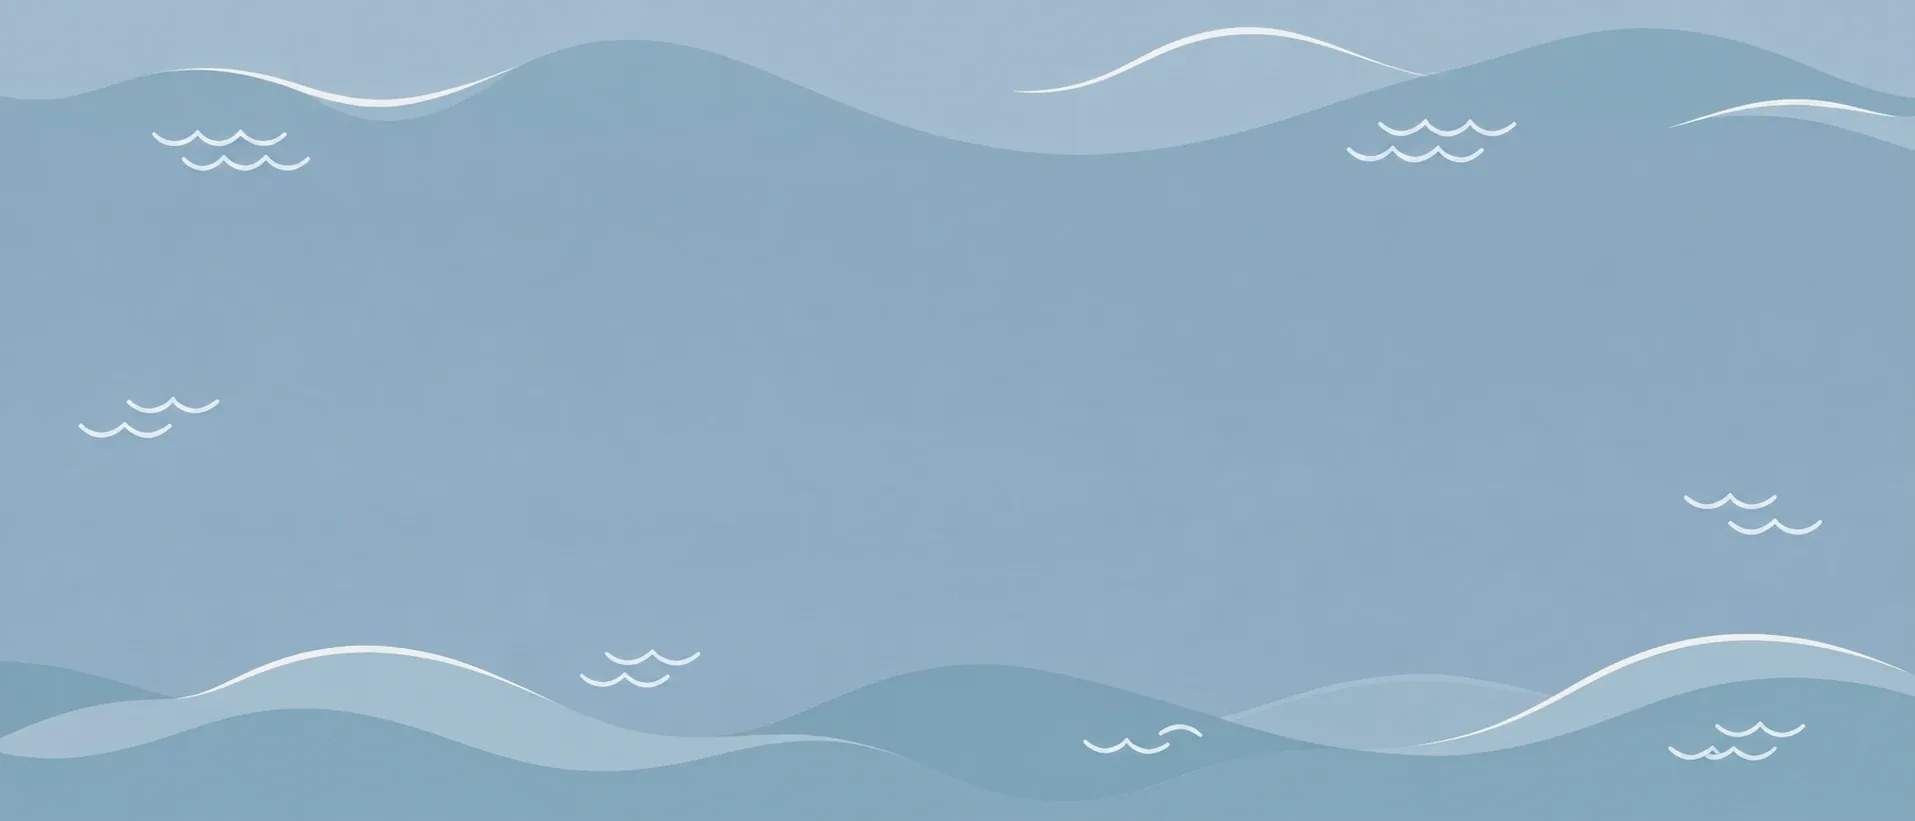
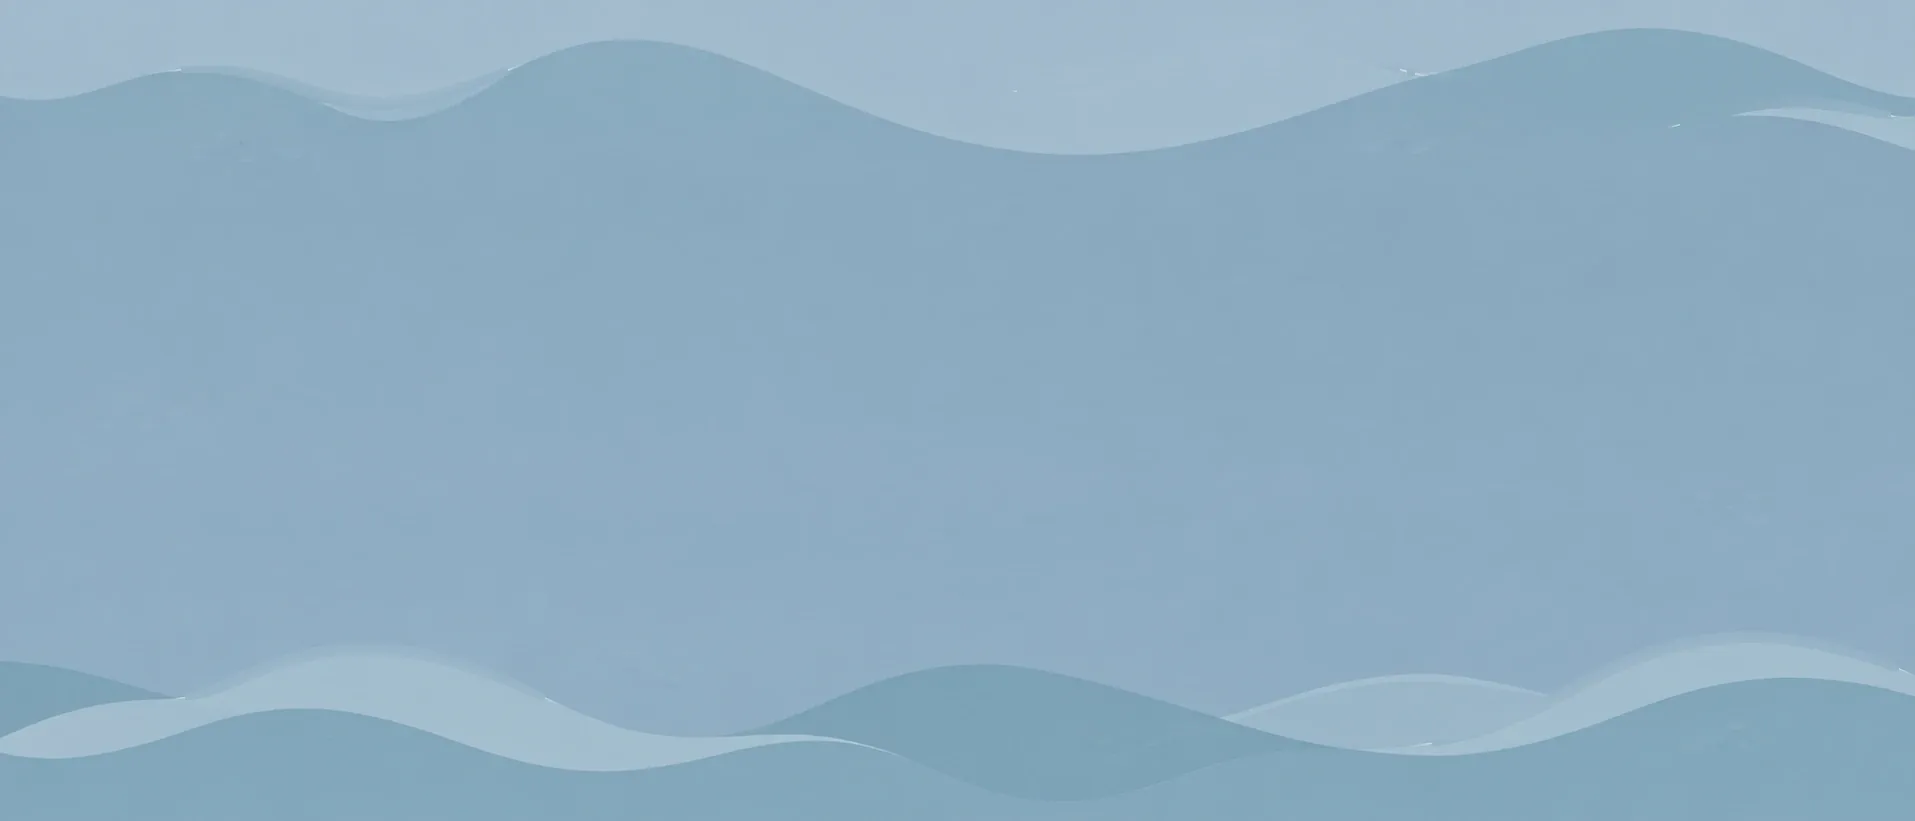
feat: home sea's white crests and ripples drift

diff --git a/src/assets/pages/_home.scss b/src/assets/pages/_home.scss
@@ -31,15 +31,45 @@ main:has(.home-page) { flex: 1; display: flex; flex-direction: column; }
   position: relative;
   z-index: 0;
 }
-// The sea around the map: waves along the top and bottom edges, pinned to the
-// screen under the header so both rows of waves stay in view.
-.home-page::before {
-  content: "";
+// The sea around the map (HomeWaves.jsx): waves along the top and bottom
+// edges, pinned to the screen under the header so both rows stay in view. The
+// picture covers the screen like background-size: cover, and its white crests
+// and ripples drift over it.
+.home-waves {
   position: fixed;
   inset: var(--topbar-height, 72px) 0 0;
   z-index: -1;
-  background: #8cabc0 url("../home-bg-waves.webp") center / cover no-repeat;
+  overflow: hidden;
   pointer-events: none;
+  container-type: size;
+}
+.home-waves-art {
+  position: absolute;
+  top: 50%;
+  left: 50%;
+  width: max(100cqw, 100cqh * 1915 / 821);
+  aspect-ratio: 1915 / 821;
+  transform: translate(-50%, -50%);
+  container-type: inline-size;
+}
+.home-waves-bg { display: block; width: 100%; height: 100%; }
+// 1 unit = 1px of the picture, scaled to its width on screen.
+.home-wave { --u: calc(100cqw / 1915); position: absolute; max-width: none; height: auto; }
+.home-wave.is-crest { animation: home-wave-crest 7s ease-in-out infinite alternate; }
+.home-wave.is-ripple { animation: home-wave-ripple 4.5s ease-in-out infinite alternate; }
+// Crests roll a little along the swell and shimmer.
+@keyframes home-wave-crest {
+  from { transform: translate(calc(var(--u) * -16), calc(var(--u) * 3)); opacity: .7; }
+  to { transform: translate(calc(var(--u) * 16), calc(var(--u) * -4)); opacity: 1; }
+}
+// Ripples bob and drift sideways.
+@keyframes home-wave-ripple {
+  0% { transform: translate(calc(var(--u) * -14), 0); opacity: .55; }
+  50% { transform: translate(0, calc(var(--u) * -6)); opacity: 1; }
+  100% { transform: translate(calc(var(--u) * 14), 0); opacity: .55; }
+}
+@media (prefers-reduced-motion: reduce) {
+  .home-wave { animation: none; }
 }
 
 .map-hero {

diff --git a/src/component/HomeWaves.jsx b/src/component/HomeWaves.jsx
@@ -1,0 +1,40 @@
+import background from "../assets/home-bg-waves.webp";
+import WAVES from "./homeWaves.json";
+
+// The sea behind the home map: the wave picture with its white crests and
+// ripples lifted out, so they can drift on their own (see _home.scss). Boxes in
+// homeWaves.json are [x0, y0, x1, y1] in the picture's pixels.
+const SPRITES = import.meta.glob("../assets/home-wave-*.webp", {
+  eager: true,
+  import: "default",
+});
+
+const pct = (value, total) => `${(value / total) * 100}%`;
+
+function HomeWaves() {
+  const { w, h, waves } = WAVES;
+  return (
+    <div className="home-waves" aria-hidden="true">
+      <div className="home-waves-art">
+        <img className="home-waves-bg" src={background} alt="" />
+        {waves.map(({ file, kind, box: [x0, y0, x1] }, index) => (
+          <img
+            key={file}
+            className={`home-wave is-${kind}`}
+            src={SPRITES[`../assets/${file}.webp`]}
+            alt=""
+            style={{
+              left: pct(x0, w),
+              top: pct(y0, h),
+              width: pct(x1 - x0, w),
+              // Spread the waves out so they never move in step.
+              animationDelay: `${-((index * 1.7) % 6)}s`,
+            }}
+          />
+        ))}
+      </div>
+    </div>
+  );
+}
+
+export default HomeWaves;

diff --git a/src/views/frontend/Home.jsx b/src/views/frontend/Home.jsx
@@ -1,6 +1,7 @@
 import { useState } from "react";
 import { Link } from "react-router-dom";
 import HandDrawnMotif from "../../component/HandDrawnMotif";
+import HomeWaves from "../../component/HomeWaves";
 import { japanPrefecturePaths, municipalityPaths } from "../../municipalityPaths";
 
 // Calibrated to the geographic extent of the source SVG. Town anchors are
@@ -400,6 +401,7 @@ function Home() {
 
   return (
     <div className="home-page">
+      <HomeWaves />
       <section className="map-hero" aria-labelledby="map-title">
         <div className="hero-copy">
           <h1 id="map-title" className="visually-hidden">日本雪場地圖</h1>
